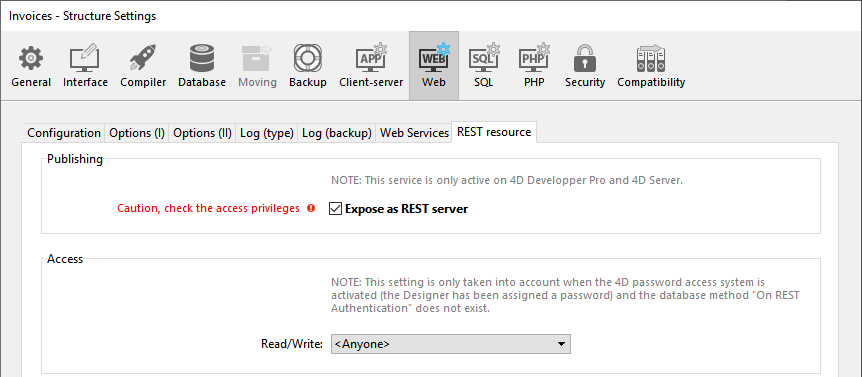
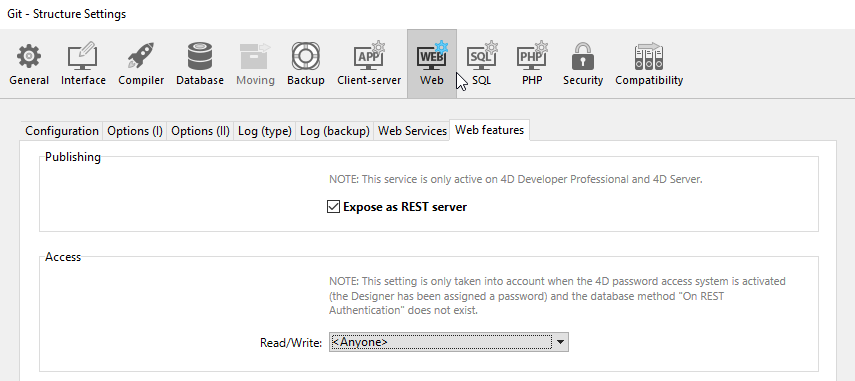
replace REST resource with Web Features

diff --git a/docs/REST/configuration.md b/docs/REST/configuration.md
@@ -15,11 +15,11 @@ To start using the REST features, you need to start and configure the 4D REST se
 
 ## Starting the REST Server
 
-For security reasons, by default, 4D does not respond to REST requests. If you want to start the REST Server, you must check the **Expose as REST server** option in the "Web/REST resource" page of the structure settings in order for REST requests to be processed. 
+For security reasons, by default, 4D does not respond to REST requests. If you want to start the REST Server, you must check the **Expose as REST server** option in the **Web** > **Web Features** page of the structure settings in order for REST requests to be processed. 
 
-![alt-text](assets/en/REST/Settings.png)
+![alt-text](assets/en/REST/settings.png)
 
-> REST services use the 4D HTTP server, so you need to make sure that the 4D Web server is started.
+> REST services use the 4D HTTP server, so you need to make sure that the 4D web server is started.
 
 The warning message "Caution, check the access privileges" is displayed when you check this option to draw your attention to the fact that when REST services are activated, by default access to database objects is free as long as the REST accesses have not been configured.
 
@@ -29,15 +29,15 @@ The warning message "Caution, check the access privileges" is displayed when you
 By default, REST accesses are open to all users which is obviously not recommended for security reasons, and also to control client licenses usage.  
 
 You can configuring REST accesses with one of the following means:
-- assigning a **Read/Write** user group to REST services in the "Web/REST resource" page of the Structure Settings;
+- assigning a **Read/Write** user group to REST services in the "**Web** > **Web Features**" page of the Structure Settings;
 - writing an `On REST Authentication` database method to intercept and handle every initial REST request.
 
-> You cannot use both features simultaneously. Once an `On REST Authentication` database method has been defined, 4D fully delegates control of REST requests to it: any setting made using the "Read/Write" menu on the Web/REST resource page of the Structure Settings is ignored.
+> You cannot use both features simultaneously. Once an `On REST Authentication` database method has been defined, 4D fully delegates control of REST requests to it: any setting made using the "Read/Write" menu on the **Web** > **Web Features** page of the Structure Settings is ignored.
 
 
 ### Using the Structure Settings
 
-The **Read/Write** menu in the "Web/REST resource" page of the structure settings specifies a group of 4D users that is authorized to establish the link to the 4D application using REST queries. 
+The **Read/Write** menu in the "**Web** > **Web Features**" page of the structure settings specifies a group of 4D users that is authorized to establish the link to the 4D application using REST queries. 
 
 By default, the menu displays **\<Anyone>**, which means that REST accesses are open to all users. Once you have specified a group, only a 4D user account that belongs to this group may be used to [access 4D by means of a REST request](authUsers.md). If an account is used that does not belong to this group, 4D returns an authentication error to the sender of the request. 
 

diff --git a/docs/WebServer/gettingStarted.md b/docs/WebServer/gettingStarted.md
@@ -99,7 +99,7 @@ http://localhost/friends.shtml
 If we not only want to *display* data, but to *use* it, we can use ORDA and the REST server. Thanks to the [ORDA concept](ORDA/overview.md), the `Friends` table is automatically mapped to a dataclass and is available through [REST](REST/gettingStarted.md). 
 
 
-1. We will use the REST server to access data: go the "Settings" dialog box, select the "Web/Rest resource" page, and check the **Expose as REST server** option.
+1. We will use the REST server to access data: go the **Settings** dialog box, select **Web** > **Web Features**, and check the **Expose as REST server** option.
 
 ![](assets/en/WebServer/hello5.png)
 

diff --git a/docs/REST/gettingStarted.md b/docs/REST/gettingStarted.md
@@ -32,7 +32,7 @@ To keep the example simple, we’re going to use 4D and a browser that are runni
 
 ![](assets/en/REST/getstarted2.png) 
 
-4. Display the **Web/REST resource** page of the Settings dialog box and [check the Expose as REST server](configuration.md#starting-the-rest-server) option. 
+4. Open the **Web > Web Features** page of the Settings dialog box and [check the Expose as REST server](configuration.md#starting-the-rest-server) option. 
 
 5. In the **Run** menu, select **Start Web Server** (if necessary), then select **Test Web Server**.
 
